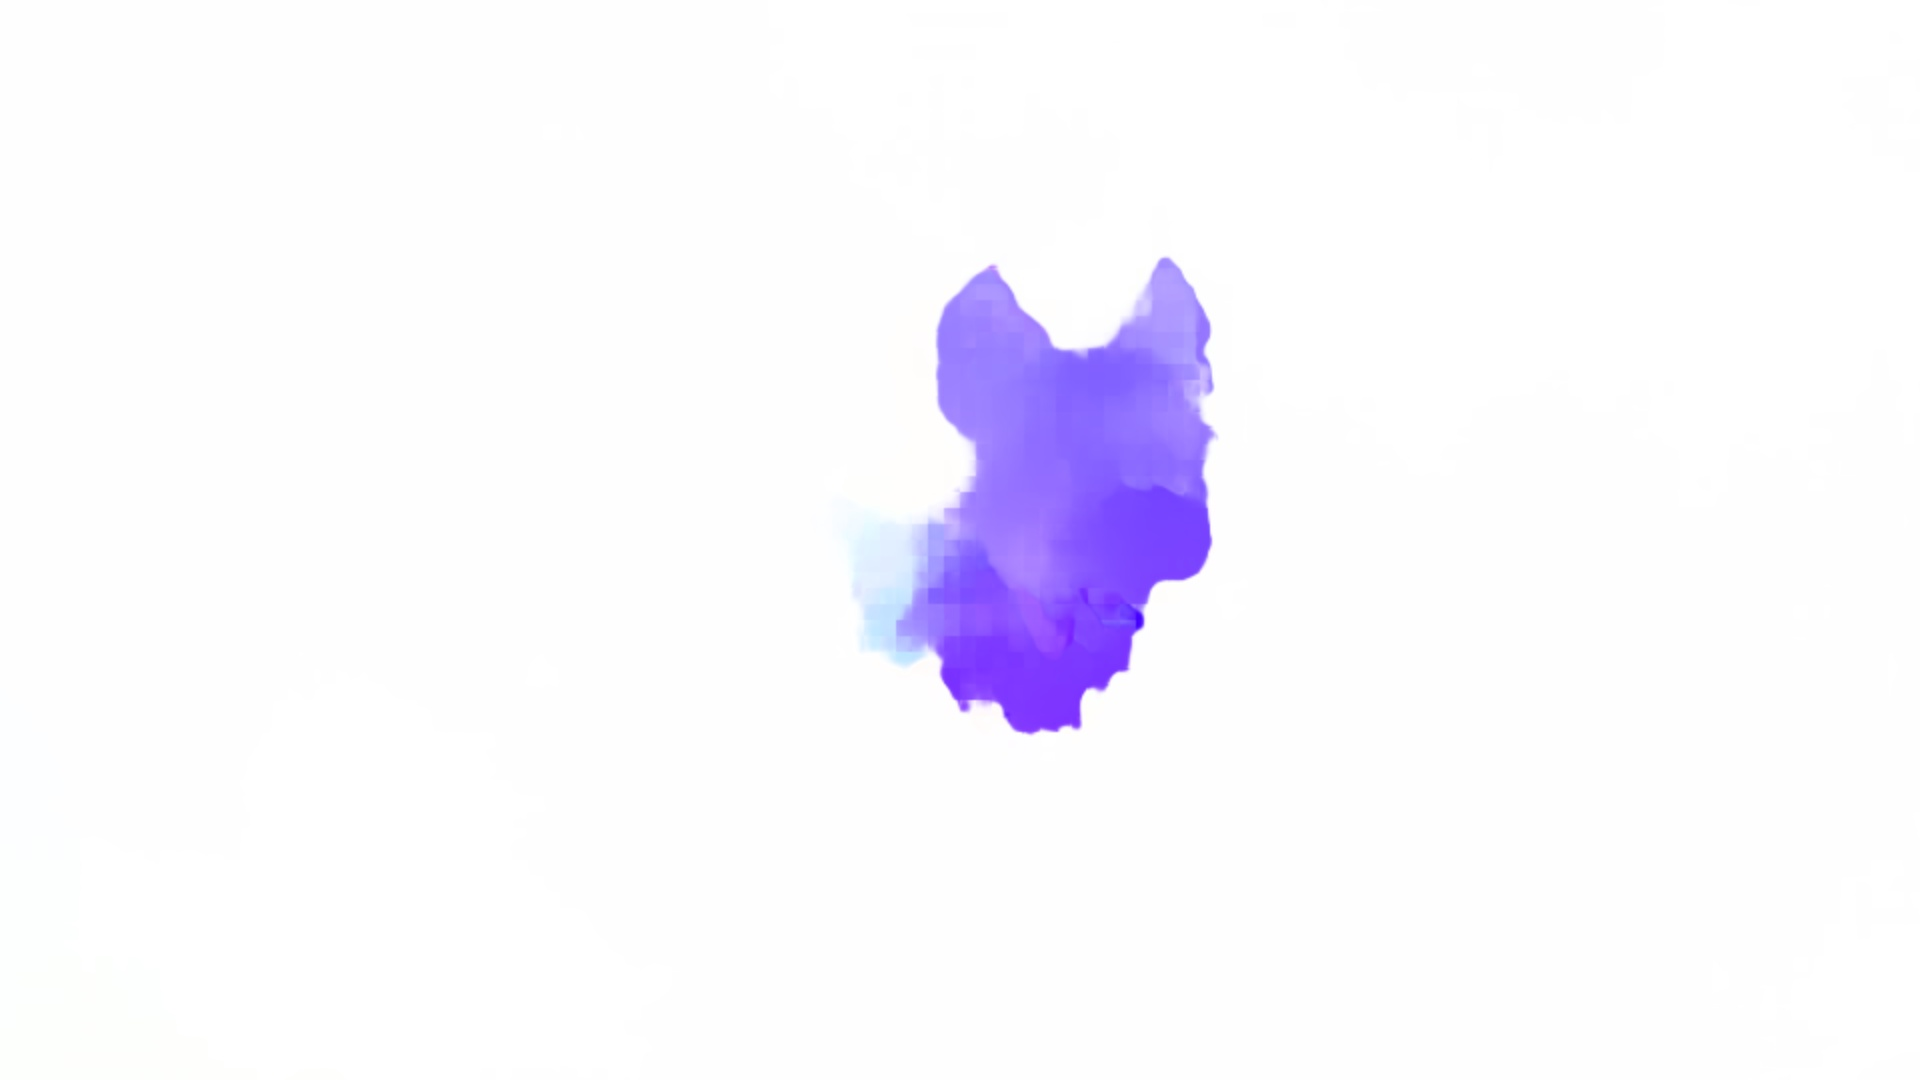
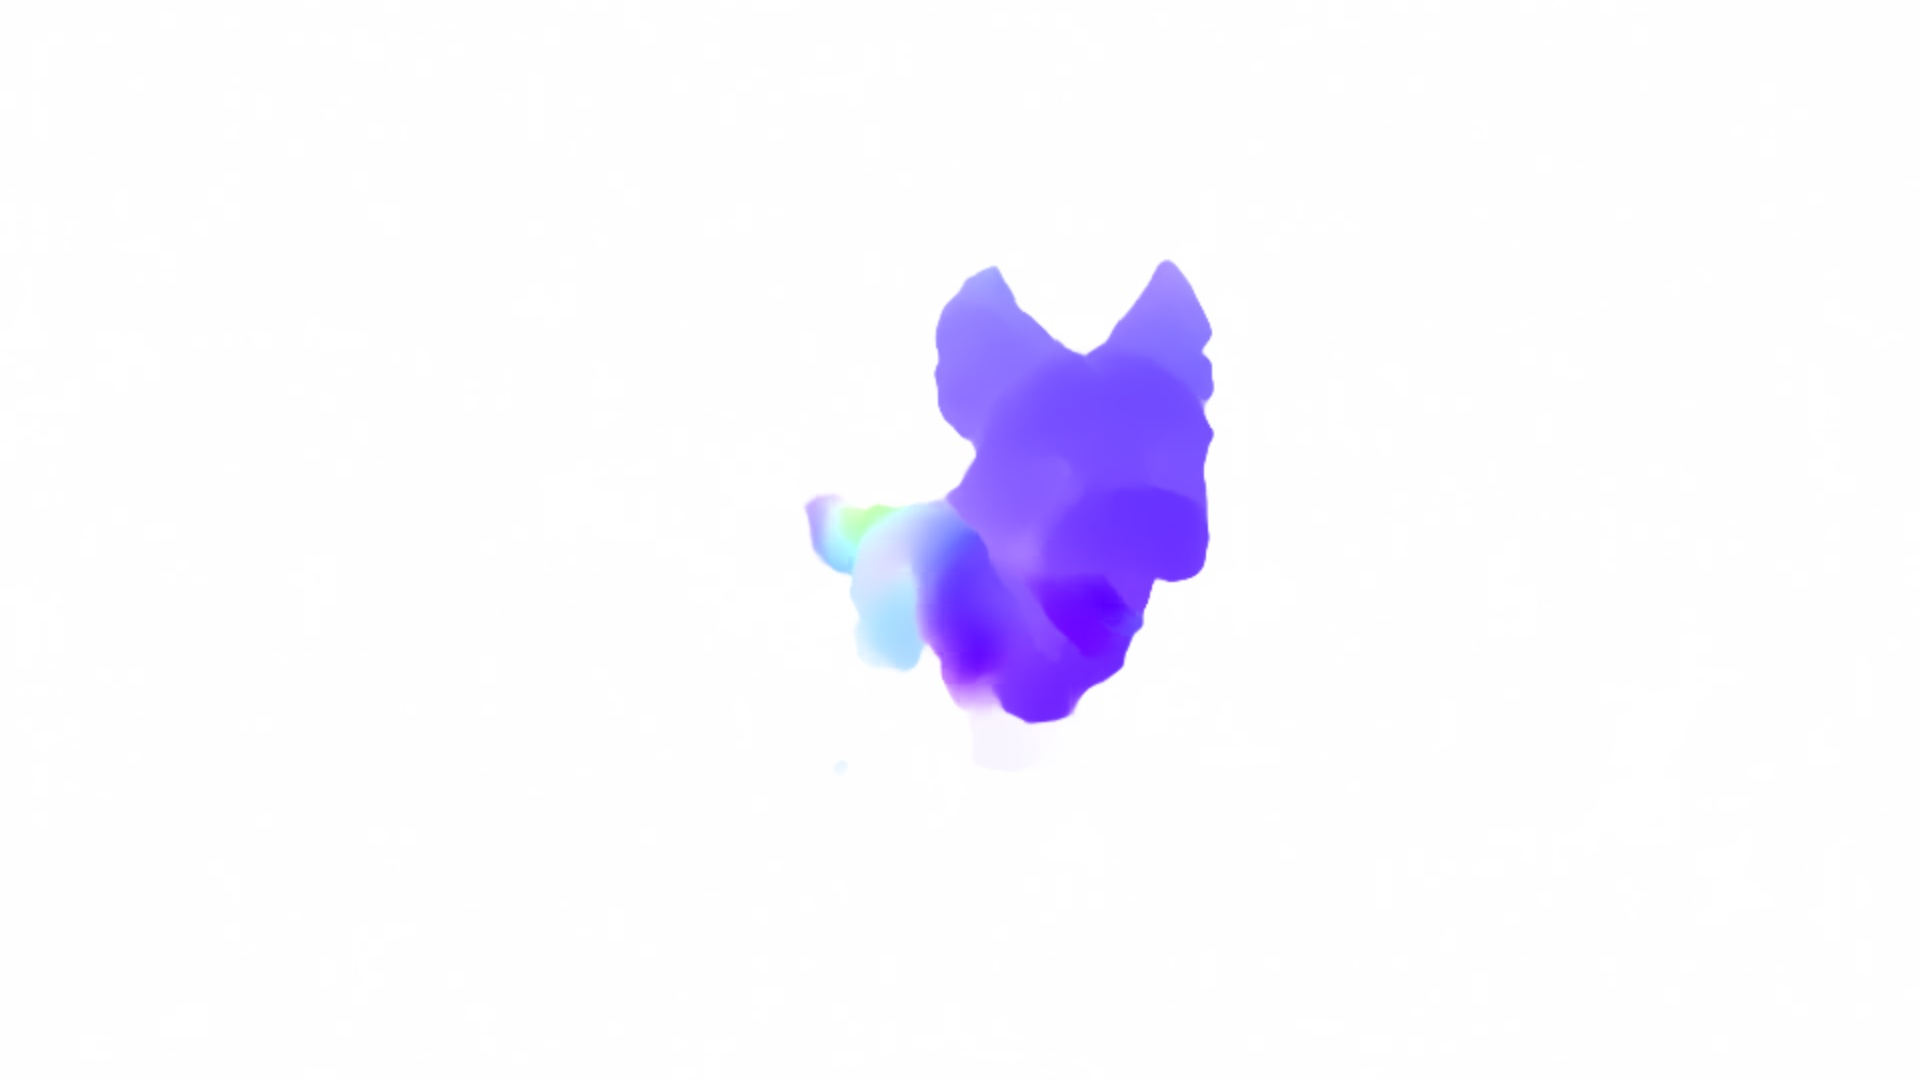
在custom中加入c2rf中的enccoder。然后还复制了一份，保证原来的代码可以运行

Changed region(s): [[0.4062, 0.2444, 0.6562, 0.7028], [0.5, 0.2444, 0.5312, 0.275]]

diff --git a/custom_original.py b/custom_original.py
@@ -18,8 +18,7 @@ from core.raft import RAFT
 from core.utils.flow_viz import flow_to_image
 from core.utils.utils import load_ckpt
 
-from core.c2rf.encoder import AE_Encoder
-from core.utils.utils import load_ckpt
+
 
 
 def create_color_bar(height, width, color_map):
@@ -98,28 +97,6 @@ def calc_flow(args, model, image1, image2):
 @torch.no_grad()
 def demo_data(path, args, model, image1, image2):
 
-    # 将 image1, image2 从 tensor 转为 numpy，转换为 YCbCr 并取 Y 通道
-    img1_np = image1[0].permute(1, 2, 0).cpu().numpy().astype('uint8')
-    img2_np = image2[0].permute(1, 2, 0).cpu().numpy().astype('uint8')
-    img1_ycbcr = cv2.cvtColor(img1_np, cv2.COLOR_RGB2YCrCb)
-    img2_ycbcr = cv2.cvtColor(img2_np, cv2.COLOR_RGB2YCrCb)
-    # 取Y通道
-    img1_y = img1_ycbcr[..., 0]
-    img2_y = img2_ycbcr[..., 0]
-    # 转为tensor并恢复batch和通道维度
-    img1_y = torch.tensor(img1_y, dtype=torch.float32).unsqueeze(0).unsqueeze(0).to(image1.device)
-    img2_y = torch.tensor(img2_y, dtype=torch.float32).unsqueeze(0).unsqueeze(0).to(image2.device)
-
-    encoder = AE_Encoder().to(device=torch.device('cpu'))
-    load_ckpt(encoder, r'D:\study\VIF\registration\SEA-RAFT\core\c2rf\Encoder.pth')  # 路径根据你的实际位置调整
-    encoder.eval()
-
-    # 获取encoder输出
-    _, _, image2, _, _, _, image1, _ = encoder(img1_y, img2_y)
-    # 只取前三个通道（如果通道数>=3，否则全部）
-    image1 = image1[:, :3, :, :] if image1.shape[1] >= 3 else image1
-    image2 = image2[:, :3, :, :] if image2.shape[1] >= 3 else image2
-
     os.system(f"mkdir -p {path}")
     H, W = image1.shape[2:]
     flow, info = calc_flow(args, model, image1, image2)
@@ -130,9 +107,9 @@ def demo_data(path, args, model, image1, image2):
 
 @torch.no_grad()
 def demo_custom(model, args, device=torch.device('cuda')):
-    image1 = cv2.imread("./custom/31vis.png")
+    image1 = cv2.imread("./custom/image1.jpg")
     image1 = cv2.cvtColor(image1, cv2.COLOR_BGR2RGB)
-    image2 = cv2.imread("./custom/31ir.png")
+    image2 = cv2.imread("./custom/image2.jpg")
     image2 = cv2.cvtColor(image2, cv2.COLOR_BGR2RGB)
     image1 = torch.tensor(image1, dtype=torch.float32).permute(2, 0, 1)
     image2 = torch.tensor(image2, dtype=torch.float32).permute(2, 0, 1)
